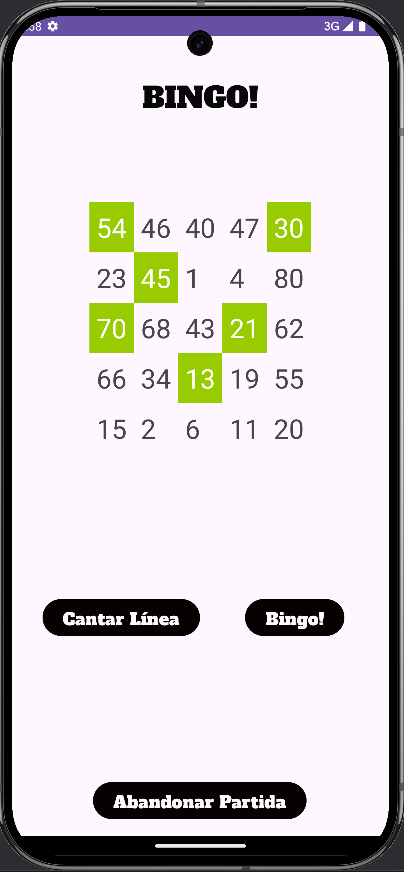
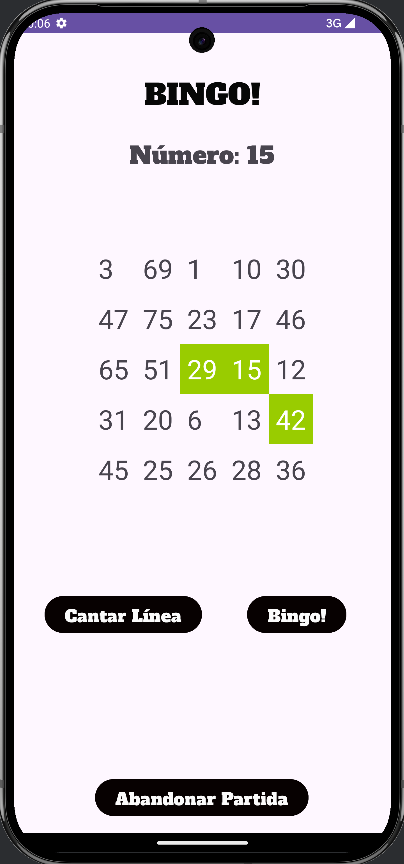
Ahora el servidor manda los números de la partida a todos los jugadores. Actualizadas las imagenes del README.

diff --git a/Servidor Bingo/daniel/pina/bingoserver/app/BingoServer.java b/Servidor Bingo/daniel/pina/bingoserver/app/BingoServer.java
@@ -117,13 +117,13 @@ public class BingoServer {
 
             } catch (IOException e) {
                 System.err.println("Error con el cliente: " + e.getMessage());
-            } /* finally {
+            } finally {
                 try {
                     socket.close();
                 } catch (IOException e) {
                     System.err.println("Error al cerrar el socket: " + e.getMessage());
                 }
-            } */
+            }
         }
 
         public void sendMessage(String message) {
@@ -163,11 +163,39 @@ public class BingoServer {
         return partidaComenzada;
     }
 
-    public static void comenzarPartida(){
+    public static void comenzarPartida() {
         partidaComenzada = true;
-        // Informar a todos los clientes que la partida ha comenzado
+    
+        List<Integer> numerosBingo = generarNumerosBingo();
+    
         BingoServer.broadcast("PARTIDA COMENZADA");
+    
+       new Thread(() -> {
+            for (int numero : numerosBingo) {
+                try {
+                    BingoServer.broadcast("NUMERO," + numero);
+    
+                    Thread.sleep(5500);
+                } catch (InterruptedException e) {
+                    System.err.println("Hilo interrumpido durante el envío de números: " + e.getMessage());
+                    Thread.currentThread().interrupt();
+                    break;
+                }
+            }
+    
+            BingoServer.broadcast("NUMEROS_COMPLETADOS");
+        }).start();
     }
+    
+    private static List<Integer> generarNumerosBingo() {
+        List<Integer> numeros = new ArrayList<>();
+        for (int i = 1; i <= 80; i++) {
+            numeros.add(i);
+        }
+        Collections.shuffle(numeros); 
+        return numeros;
+    }
+    
 
     public static void finalizarPartida(){
         partidaComenzada = false;

diff --git a/Bingo/app/src/main/java/daniel/pina/bingo/Partida.java b/Bingo/app/src/main/java/daniel/pina/bingo/Partida.java
@@ -209,6 +209,18 @@ public class Partida extends AppCompatActivity {
                             });
                             irPantallaFin(nombre);
                         }
+                        else if (message.startsWith("NUMERO")) {
+
+                            String[] aux = message.split(",");
+                            String numero = aux[1];
+
+                            runOnUiThread(() -> {
+                                TextView numeroTextView = findViewById(R.id.numeros_textView);
+                                numeroTextView.setText(String.format("Número: %s", numero));
+                            });
+                        } else if (message.equals("NUMEROS_COMPLETADOS")) {
+                            irPantallaFin("NADIE");
+                        }
 
                     }
                 } catch (IOException e) {

diff --git a/Bingo/app/src/main/java/daniel/pina/bingo/Fin.java b/Bingo/app/src/main/java/daniel/pina/bingo/Fin.java
@@ -16,9 +16,12 @@ public class Fin extends AppCompatActivity {
         setContentView(R.layout.fin_layout);
 
         String nombreGanador = getIntent().getStringExtra("NOMBRE");
-
         TextView textView = findViewById(R.id.ganador_textView);
-        textView.setText(String.format("¡%s ha hecho BINGO!", nombreGanador));
+        if(nombreGanador!=null && nombreGanador.equals("NADIE"))
+            textView.setText("Nadie ha hecho BINGO...");
+        else {
+            textView.setText(String.format("¡%s ha hecho BINGO!", nombreGanador));
+        }
 
         Button volverButton = findViewById(R.id.volver_fin_button);
         volverButton.setOnClickListener(new View.OnClickListener() {
